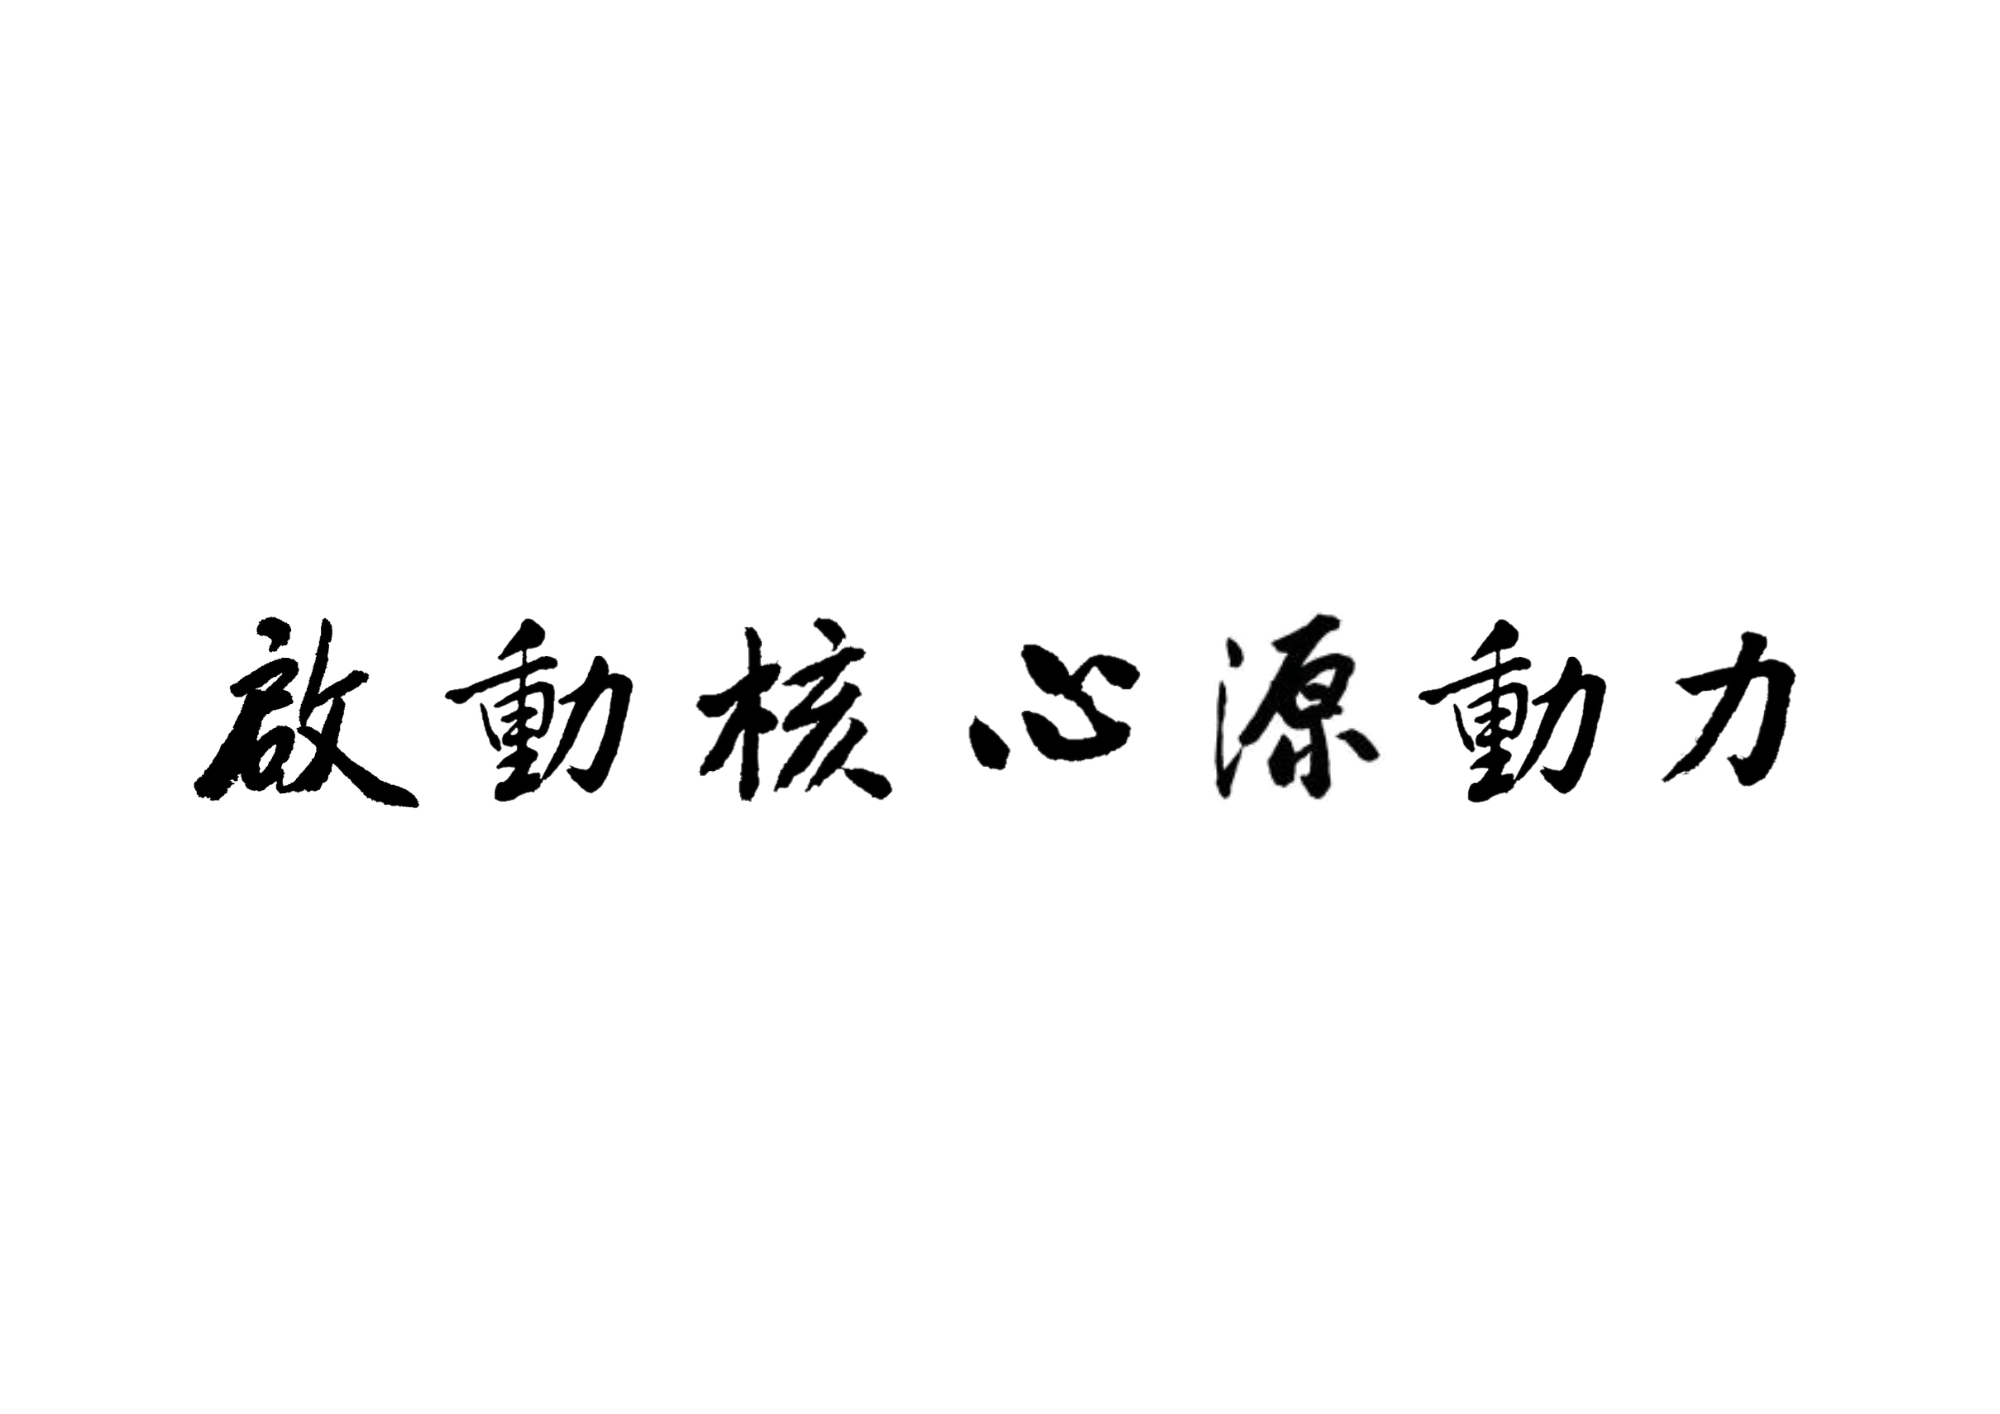
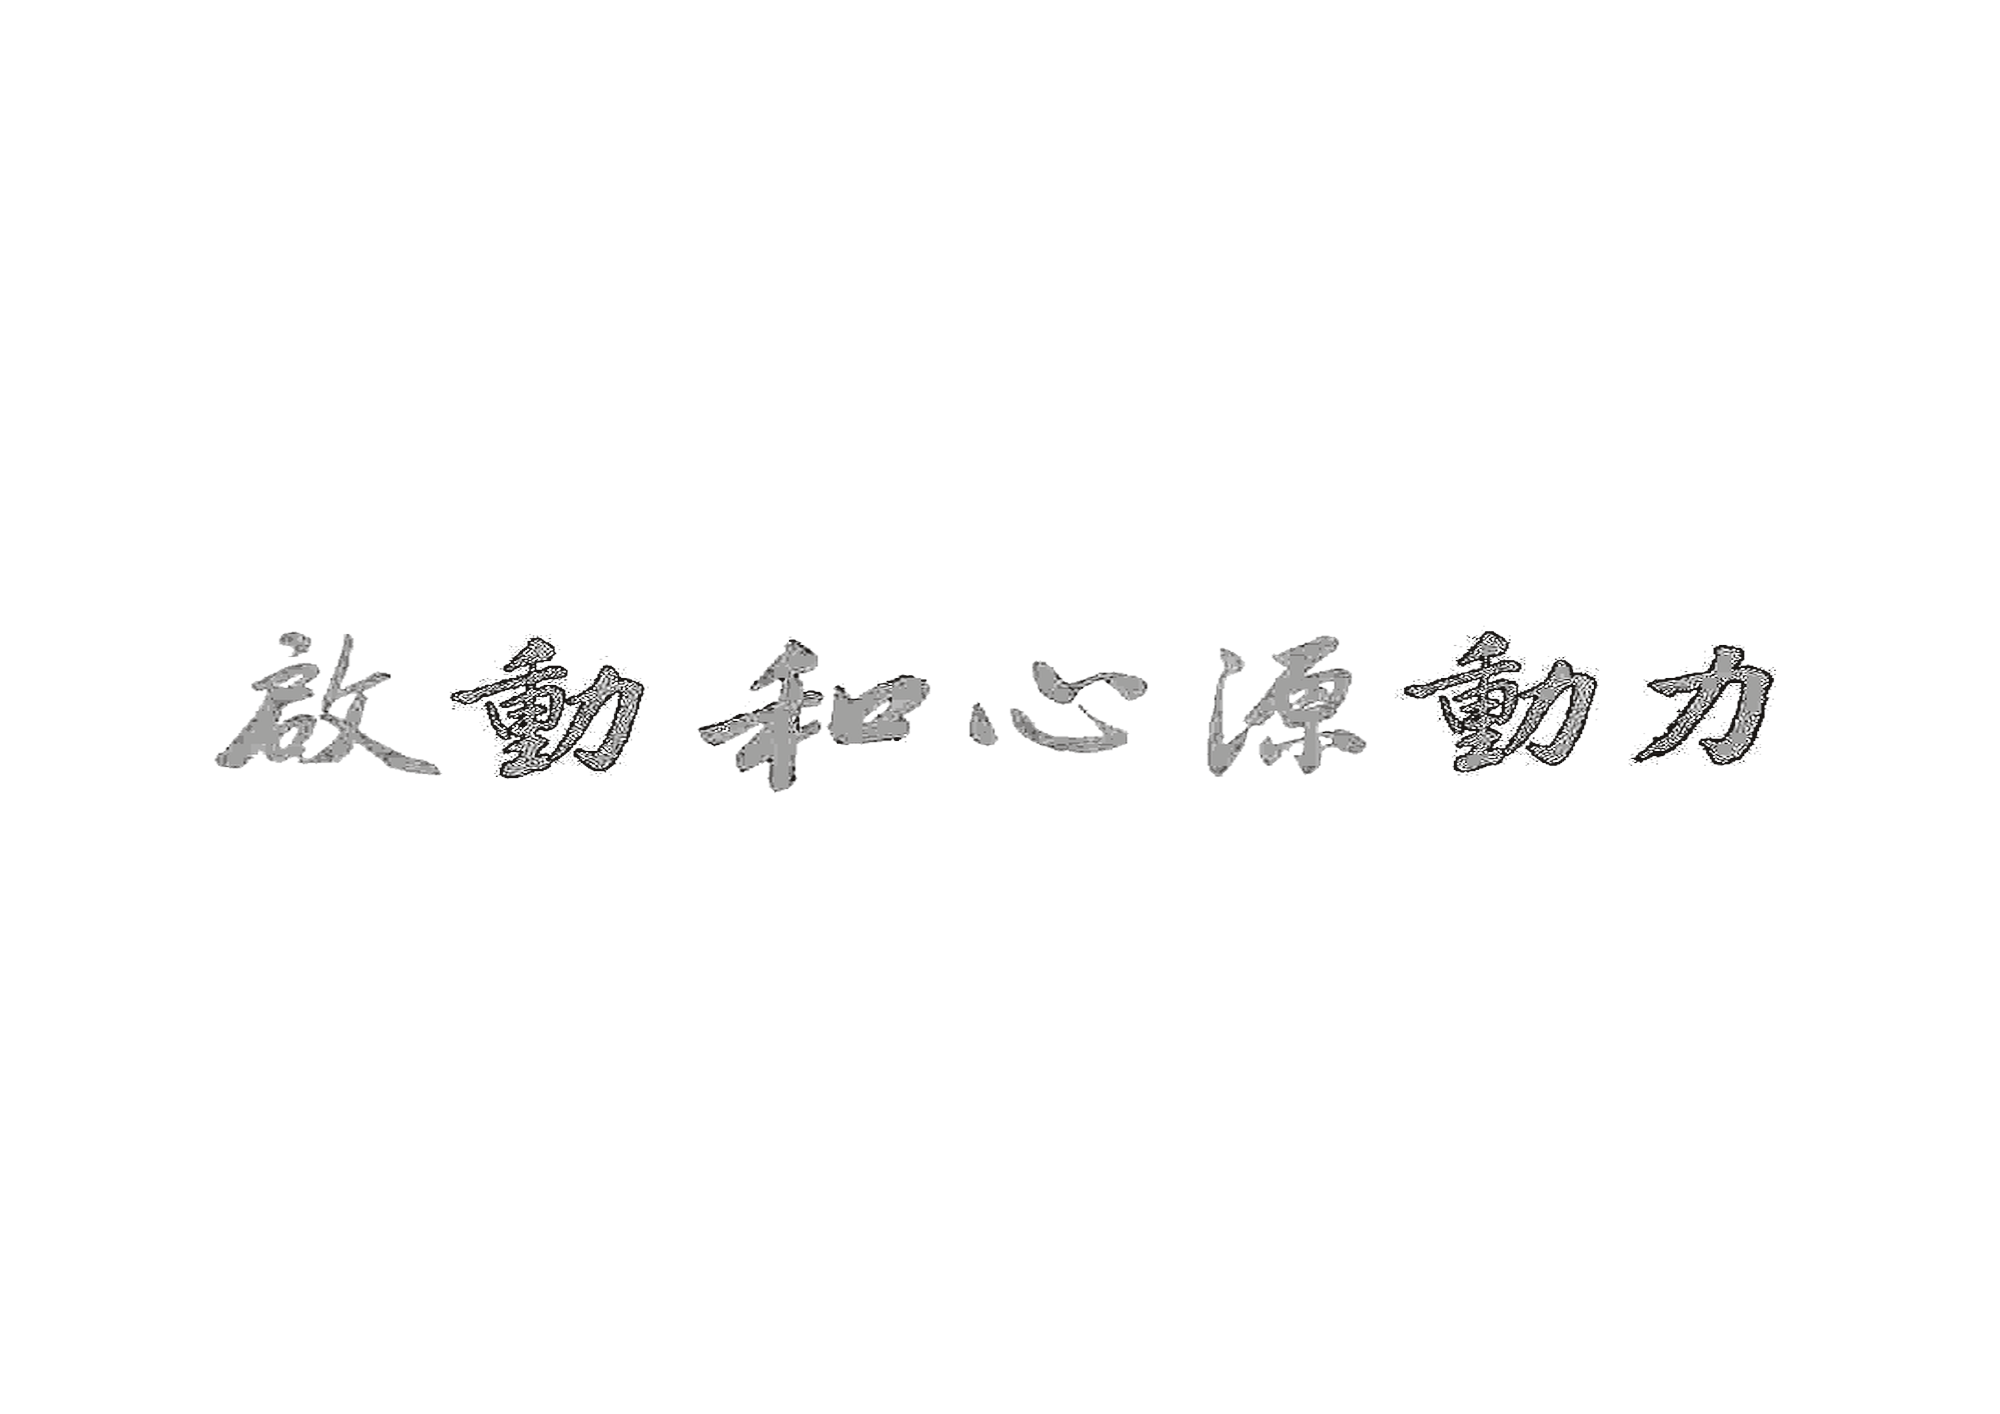
Replace homepage brush calligraphy with the new artwork.
Keep the original canvas size and placement so the hero sigil proportions stay the same.

Changed region(s): [[0.217, 0.4356, 0.899, 0.5601], [0.093, 0.4356, 0.217, 0.5912]]

diff --git a/src/data/site.ts b/src/data/site.ts
@@ -16,7 +16,7 @@ export const siteSettings = {
   helloAssoUrl: "https://www.helloasso.com/associations/traditional-culture-foundation-at-unesco",
   logo: "/assets/tcf-logo.svg?v=9",
   logoMark: "/assets/tcf-logo-mark.png",
-  calligraphy: "/assets/calligraphy-original.png",
+  calligraphy: "/assets/calligraphy-original.png?v=12",
   heroArabicTagline: "/assets/hero-arabic-tagline.png",
   heroArabicTaglineAlt: "أشعل الشرارة في القلب",
   defaultOgImage: "/assets/events/international-peace-conference-2025-poster.jpg"
